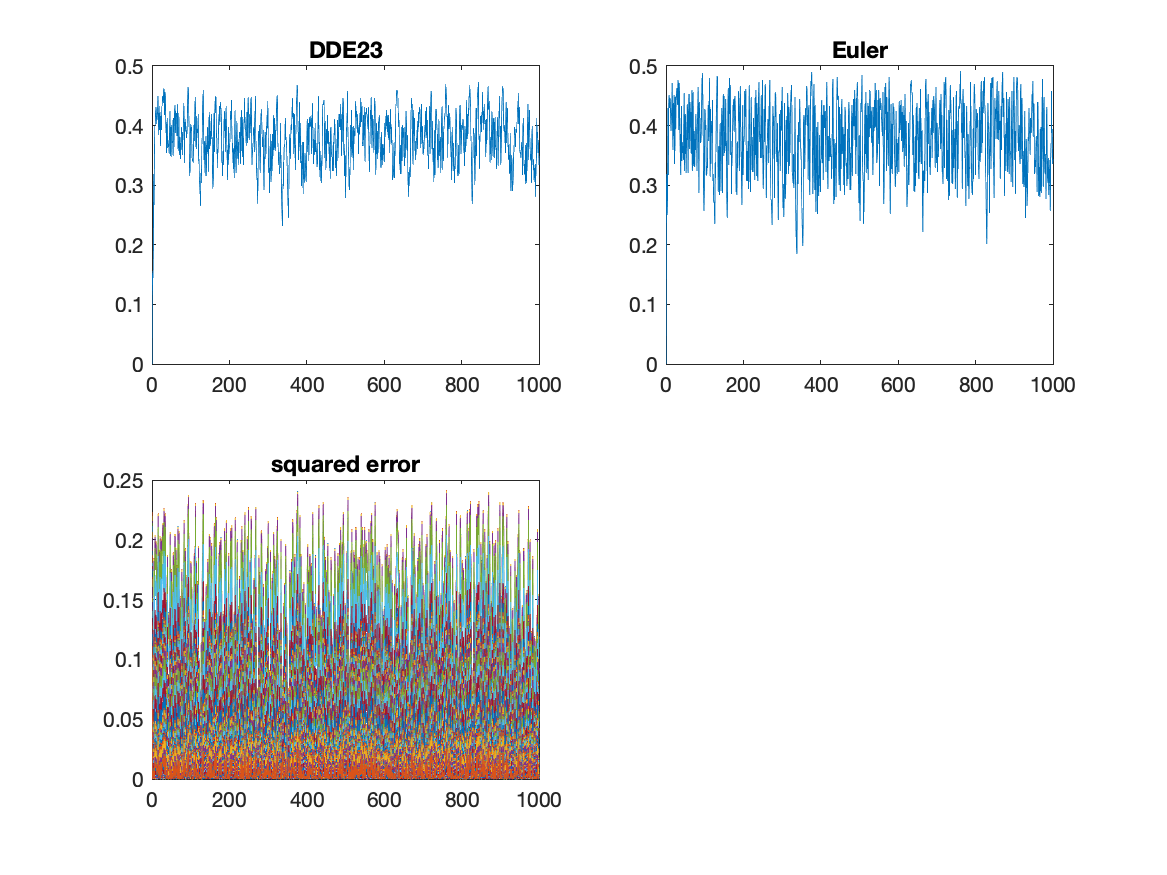
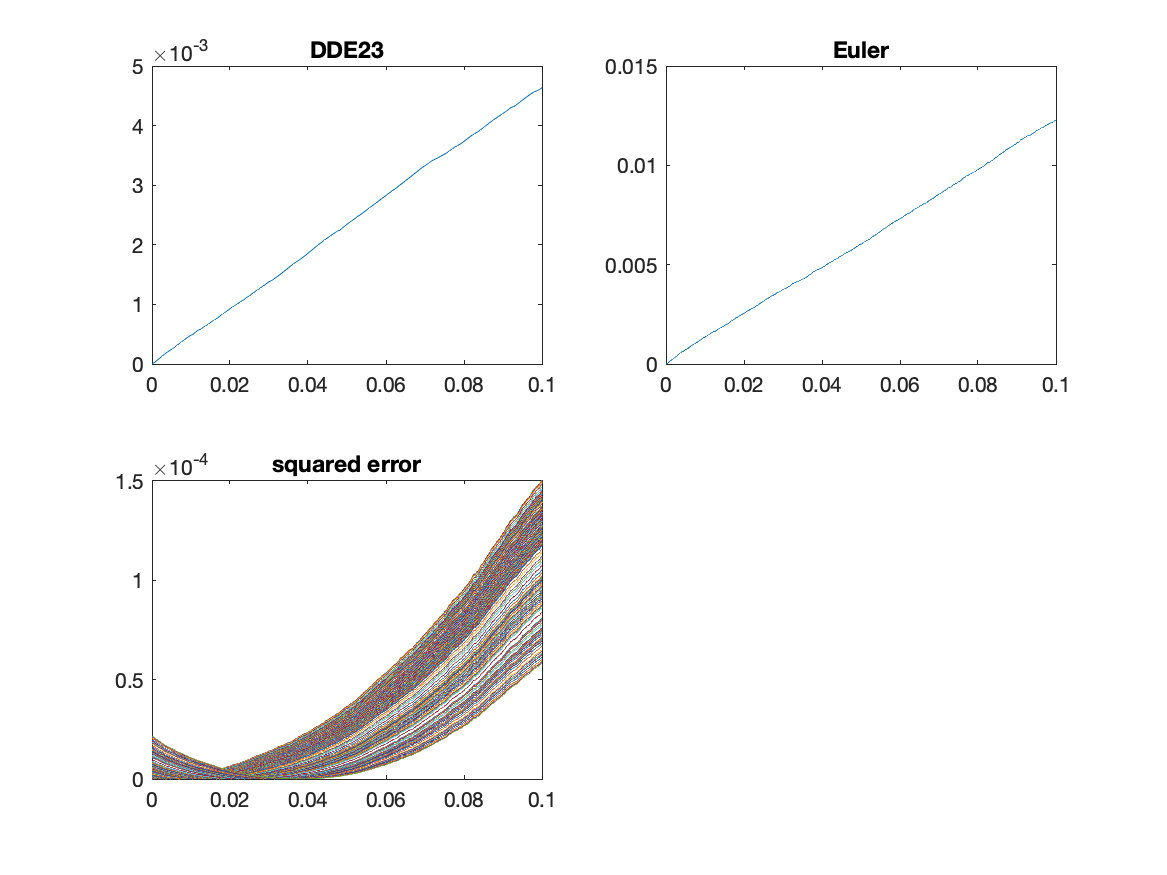
A working version of comparision script between DDE23 and Euler. Must fix the input portion of the script and also make those changes within MackeyGlass.m as well.

diff --git a/Matlab/EulerMoSComp.m b/Matlab/EulerMoSComp.m
@@ -1,0 +1,120 @@
+d = ddeVEuler(Inputsequence,0.0001);
+
+function M_x = MGEulerComp(input,gamma,N, eta, loops,p,theta)
+    % Calculates output of MG using euler WITHOUT
+    % RESERVOIR/Masking
+%                   - Possibility of upgrading this code to handle multiple loops
+    % args:
+    % column vector of inputs j(x)
+    
+    % output:
+    % M_x: Matrix of reservoir history of size (# tau, Nodes)
+    
+    
+    J = input * ones(1 , N);
+    cycles = size(input);   %The number of rows we have
+    M_x = zeros(cycles(1), N);  
+    J = [zeros(1,N); J];    % Sets initial Value to 0
+
+    for i = 2:cycles+1
+        for j = 0       %Used to evaluate MG for the first value in a new column
+            vn_0 = M_x(i-1,end) + (- M_x(i-1,end) + eta .* (M_x(i-1,end) + ...
+                    gamma .* J(i-1,end)) ./ (1 + (M_x(i-1,end) + gamma ...
+                    .* J(i-1,end)).^ p)) .* theta;
+            M_x(i,1) = vn_0;
+        end
+
+        for j = 2:N   % Evaluates the nodes other than first value
+            vn = M_x(i,j - 1) + (- M_x(i, j - 1) + ...
+                eta * ( M_x(i - 1 , j - 1) + gamma .* J(i,j-1) ...
+                ./ (1 + (M_x(i-1, j - 1) + gamma .* J(i, j - 1)).^ p ) .* theta));
+            M_x(i, j) = vn;
+        end
+    end
+    M_x = M_x(2:end,:);      % Delete the first row of initial conditions
+
+    t = 400;
+%             plot(M_x);
+end
+
+
+function sol = dde23Comp(input,gamma,N, eta, loops,p,theta)
+    % Calculates (Without masking) state of the reservoir using
+    % DDE 23
+    %
+    % Where Z is the the delayed x, x is the current x and t is the
+    % current time.
+    J = input;      %Possibility of multiplying against the nodes like above to compare node performace?
+    J = [J ; 0];
+    inlen = size(input,1);
+
+    tau = theta .* N;
+    hist = 0;
+
+    % Edit the way that you iterate through the inputs, its sloppy
+    dx = @(t,x,XL) ( eta .* ( XL + gamma .* J(round(t ./ tau)+1) ) ...
+        ./ ( 1 + (XL + gamma .* J(round(t ./ tau)+1)) ) .^ p ) - x;
+
+    duration = inlen .* tau;
+    t = linspace(0,duration,inlen);
+    hist = 0;
+
+    sol = dde23(dx, tau, hist, t);
+
+%             plot(sol.x,sol.y);
+
+end
+
+
+function diff = ddeVEuler(input, theta)
+    % ddeVEuler compares the accuracy of Euler method of integration
+    % to method of steps (dde23). Varies the time step of Euler.
+
+    % args:
+    % input = vertical array of input values
+    % theta = time between nodes. If running only a single node, synonymous
+    %   to tau
+
+    % returns:
+    % squared error between the two methods.
+    
+    
+    % Define variables
+    gamma = 0.5;    % input weight
+    N = 1;          % single node
+    eta = 1;        % mult. in front of delayed term
+    loops = 1;      % number of delay loops in reservoir
+    p = 7;          % exponent
+    
+    % Call both functions 
+    eulerSol = MGEulerComp(input,gamma,N, eta, loops,p,theta);
+    ddeSol = dde23Comp(input,gamma,N, eta, loops,p,theta);
+    
+    % Compare results and calculate total sq. error
+    error = eulerSol - ddeSol.y;
+    SqError = error .^ 2;
+    size(error);
+    diff = mean(mean(SqError,1),2);
+
+    % Plot it all out
+    figure1 = figure
+
+    subplot(2,2,1);
+    plot(ddeSol.x,ddeSol.y);
+    title("DDE23")
+
+    subplot(2,2,2);
+    plot(linspace(0,size(input,1).* theta, size(input,1)) ,eulerSol);
+    title("Euler")
+
+    subplot(2,2,3)
+    plot(linspace(0,size(input,1).* theta, size(input,1)), SqError);
+    title("squared error")
+
+    saveas(figure1,'EulervDDE23.png')
+
+   fprintf('Squared Total Error = %f1.2',diff);
+
+end
+
+
